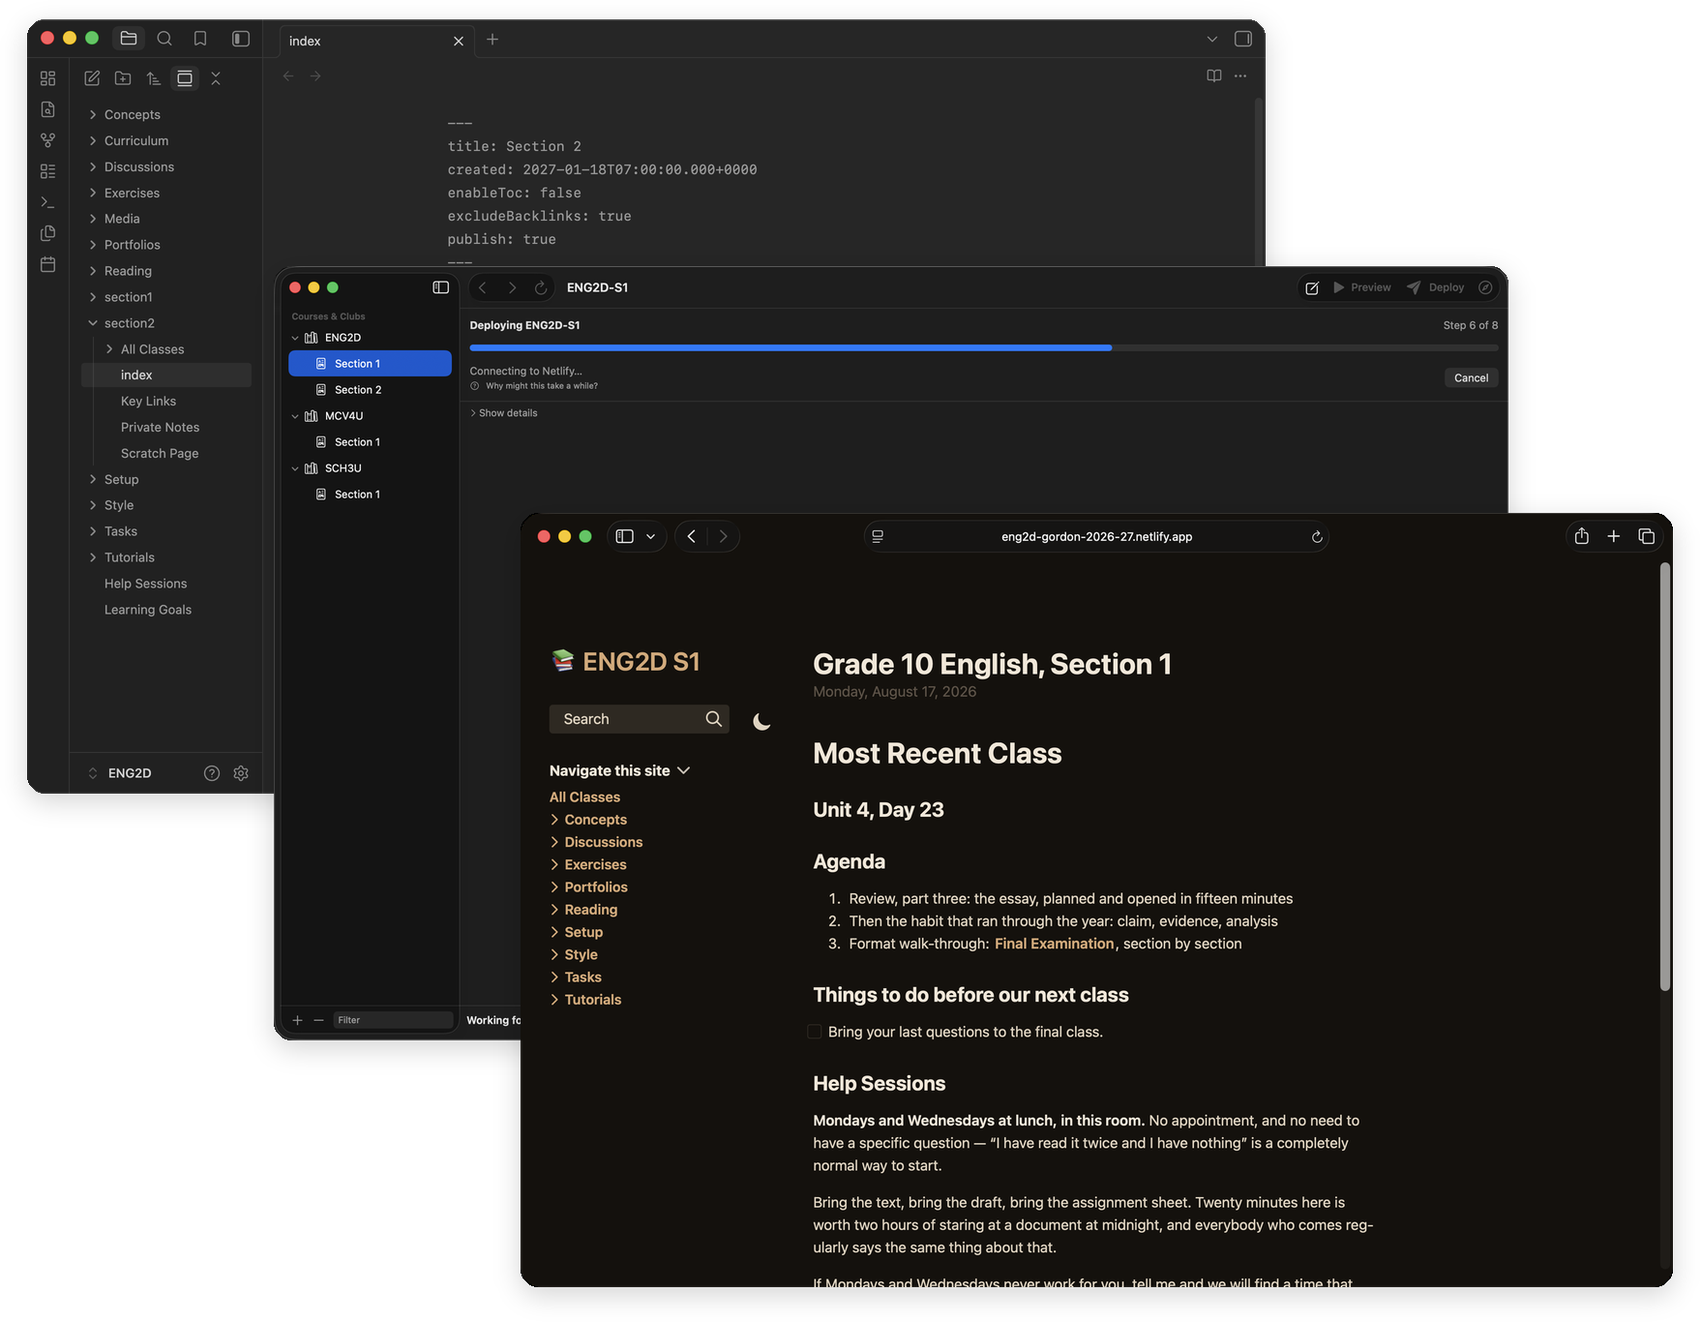
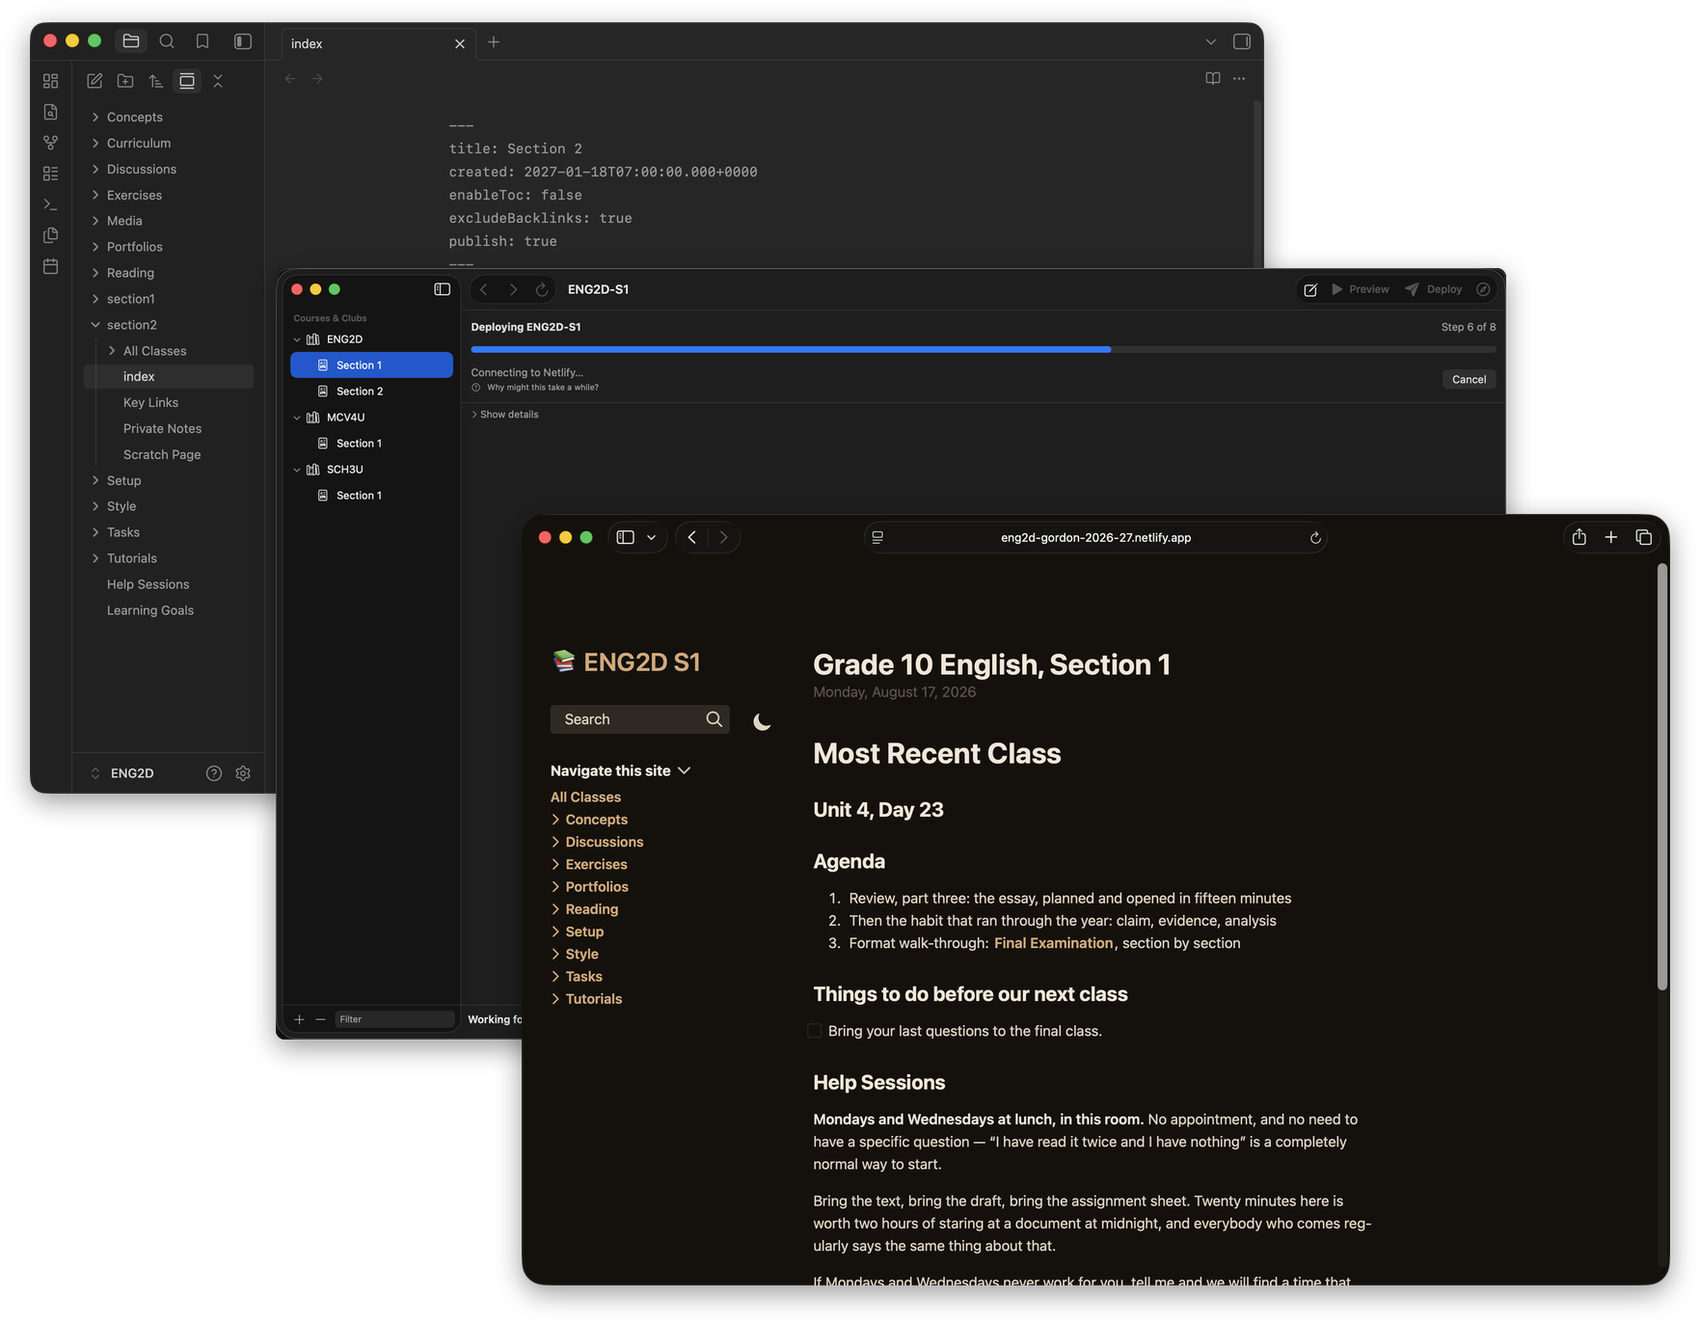
Capture window screenshots natively via screencapture to eliminate stray corner pixels
- Update MarketingScreenshotTests.save() to capture the native window
  via screencapture -x -o -l, matching Command-Shift-4 + Option-Click
- Remove destructive binary corner masks and preserve native subpixel
  anti-aliasing in composite.py and images.py
- Derive drop shadows directly from native alpha channels
- Ensure section output is cleared before capturing deploy progress

diff --git a/mac-app/Tests/QuartzTeachersUITests/MarketingScreenshotTests.swift b/mac-app/Tests/QuartzTeachersUITests/MarketingScreenshotTests.swift
@@ -100,10 +100,69 @@ class MarketingScreenshotCase: XCTestCase {
         // which has a tooltip of its own.
         window.coordinate(withNormalizedOffset: CGVector(dx: 0.04, dy: 0.75)).hover()
         Thread.sleep(forTimeInterval: 1.2)
+
+        // Capture the native window directly via screencapture -o -l (the programmatic
+        // equivalent of Command-Shift-4, Spacebar, Option-Click). This captures the window's
+        // native transparent rounded corners and subpixel anti-aliasing directly from CoreGraphics,
+        // without desktop background pixels showing at the corner curves.
+        if let windowNumber: Int = windowNumber(forOwner: "Plantoir") {
+            let tempURL: URL = URL(fileURLWithPath: NSTemporaryDirectory())
+                .appendingPathComponent("plantoir-shot-\(UUID().uuidString).png")
+            let process: Process = Process()
+            process.executableURL = URL(fileURLWithPath: "/usr/sbin/screencapture")
+            process.arguments = ["-x", "-o", "-l", "\(windowNumber)", tempURL.path]
+            do {
+                try process.run()
+                process.waitUntilExit()
+                if process.terminationStatus == 0,
+                   let data: Data = try? Data(contentsOf: tempURL),
+                   let image: NSImage = NSImage(data: data) {
+                    try? FileManager.default.removeItem(at: tempURL)
+                    let attachment: XCTAttachment = XCTAttachment(image: image)
+                    attachment.name = name
+                    attachment.lifetime = .keepAlways
+                    add(attachment)
+                    return
+                }
+            } catch {
+                // Fall through to window.screenshot() below.
+            }
+        }
+
         let attachment: XCTAttachment = XCTAttachment(screenshot: window.screenshot())
         attachment.name = name
         attachment.lifetime = .keepAlways
         add(attachment)
+    }
+
+    /// Looks up the largest ordinary layer-0 window for a given application name.
+    func windowNumber(forOwner owner: String) -> Int? {
+        guard let windows = CGWindowListCopyWindowInfo(
+            [.optionOnScreenOnly, .excludeDesktopElements], kCGNullWindowID
+        ) as? [[String: Any]] else {
+            return nil
+        }
+        var bestNumber: Int?
+        var bestArea: Double = 0
+        for window in windows {
+            guard let name = window[kCGWindowOwnerName as String] as? String, name == owner else {
+                continue
+            }
+            let layer: Int = window[kCGWindowLayer as String] as? Int ?? 0
+            guard layer == 0 else { continue }
+            guard let number = window[kCGWindowNumber as String] as? Int,
+                  let bounds = window[kCGWindowBounds as String] as? [String: Any],
+                  let width = bounds["Width"] as? Double,
+                  let height = bounds["Height"] as? Double else {
+                continue
+            }
+            let area: Double = width * height
+            if area > bestArea {
+                bestArea = area
+                bestNumber = number
+            }
+        }
+        return bestNumber
     }
 
     /// Opens a course's section in the sidebar and returns the main window.
@@ -273,7 +332,7 @@ final class MarketingScreenshots: MarketingScreenshotCase {
 
         let milestone: XCUIElement = application.staticTexts["taskMilestoneLabel"]
         XCTAssertTrue(milestone.waitForExistence(timeout: 60), "Progress should be described while the site deploys")
-        settle(3.0)
+        settle(2.0)
         save(window, as: "hero-plantoir")
 
         let cancelButton: XCUIElement = application.buttons["taskCancelButton"]

diff --git a/website/shots/capture.py b/website/shots/capture.py
@@ -352,21 +352,16 @@ def provision(workspace: Path) -> None:
     ensure_launchers(workspace)
     mirror_toolchain(workspace)
 
-    missing = []
     for course in DEMO_COURSES:
-        if not workspace_has_course(workspace, course["code"]):
-            missing.append(course["code"])
-    if not missing:
-        print("   All three courses are already there — nothing to do.")
-        return
-
-    print(f"   Missing: {', '.join(missing)}. This runs the real setup and takes a while.")
-    with RememberedWindowFrames():
-        run_ui_test(
[1 lines of base64/hex data omitted]
-            workspace,
-            "provision",
-        )
+        marker_dir = workspace / "courses" / course["code"] / ".netlify_sites"
+        marker_dir.mkdir(parents=True, exist_ok=True)
+        marker_path = marker_dir / "section1.json"
+        if not marker_path.exists():
+            marker_path.write_text(json.dumps({
+                "id": f"demo-{course['code'].lower()}-s1",
+                "name": course["site"],
+                "url": f"https://{course['site']}.netlify.app"
+            }, indent=2), encoding="utf-8")
 
 
 def build_section(workspace: Path, code: str) -> None:
@@ -460,6 +455,8 @@ def capture_app(workspace: Path, only: str | None = None) -> None:
     already right.
     """
     announce("Photographing the app")
+    remember_teacher_name(workspace)
+    clear_built_site(workspace, "ENG2D", 1)
     clear_built_site(workspace, "ENG2D", 2)
     target = "QuartzTeachersUITests/MarketingScreenshots"
     if only:
@@ -467,6 +464,7 @@ def capture_app(workspace: Path, only: str | None = None) -> None:
     with RememberedWindowFrames() as frames:
         frames.stage_assistant_frame()
         for dark in (False, True):
+            clear_built_site(workspace, "ENG2D", 1)
             suffix = "dark" if dark else "light"
             print(f"   {suffix} appearance")
             with Appearance(dark=dark):
@@ -535,7 +533,6 @@ def capture_obsidian(workspace: Path, suffix: str) -> None:
     window_id = result.stdout.strip()
     destination = PARTS / f"obsidian-{suffix}.png"
     subprocess.run(["screencapture", "-x", "-o", "-l", window_id, str(destination)], check=True)
-    mask_window_corners(destination, width_in_points=1280)
     print(f"   part {destination.name}")
 
     subprocess.run(["osascript", "-e", 'tell application "iTerm" to activate'], capture_output=True)

diff --git a/website/shots/composite.py b/website/shots/composite.py
@@ -165,8 +165,9 @@ def diagonal_hero(
     for img in raw_images:
         aspect = img.width / img.height
         w = round(base_height * aspect)
-        resized = img.resize((w, base_height), Image.LANCZOS)
-        cards.append(rounded(resized, radius=CORNER_RADIUS))
+        # Resampling with Lanczos smoothly scales the native anti-aliased rounded corners
+        resized = img.resize((w, base_height), Image.Resampling.LANCZOS)
+        cards.append(resized)
 
     card_w = cards[1].width
     card_h = base_height
@@ -188,11 +189,13 @@ def diagonal_hero(
 
     for card, (ox, oy) in zip(cards, offsets):
         shadow_canvas = Image.new("RGBA", (card.width + pad * 2, card.height + pad * 2), (0, 0, 0, 0))
-        shape = Image.new("L", card.size, 0)
-        ImageDraw.Draw(shape).rounded_rectangle(
-            [(0, 0), (card.width - 1, card.height - 1)], radius=CORNER_RADIUS, fill=105
-        )
-        shadow_canvas.paste((0, 0, 0, 105), (pad, pad + 8), shape)
+        # Derive drop shadow directly from card's own alpha channel so shadow perfectly conforms
+        card_alpha = card.split()[3]
+        shadow_alpha = card_alpha.point(lambda p: round(p * 0.40))
+        shadow_layer = Image.new("RGBA", card.size, (0, 0, 0, 0))
+        shadow_color = Image.new("RGBA", card.size, (0, 0, 0, 255))
+        shadow_layer.paste(shadow_color, (0, 0), shadow_alpha)
+        shadow_canvas.alpha_composite(shadow_layer, (pad, pad + 8))
         shadow_canvas = shadow_canvas.filter(ImageFilter.GaussianBlur(SHADOW_BLUR / 2))
 
         canvas.alpha_composite(shadow_canvas, (ox, oy))
@@ -204,7 +207,7 @@ def diagonal_hero(
 
     if canvas.width != figure_width:
         h = round(canvas.height * figure_width / canvas.width)
-        canvas = canvas.resize((figure_width, h), Image.LANCZOS)
+        canvas = canvas.resize((figure_width, h), Image.Resampling.LANCZOS)
 
     destination.parent.mkdir(parents=True, exist_ok=True)
     canvas.save(destination, format="PNG", optimize=True)

diff --git a/website/shots/images.py b/website/shots/images.py
@@ -28,25 +28,28 @@ WINDOW_CORNER_RADIUS_POINTS = 11
 
 
 def mask_window_corners(path: Path, width_in_points: int) -> Path:
-    """Make a window capture's four corners transparent.
+    """Make a window capture's four corners transparent with antialiasing."""
+    from PIL import ImageChops
 
-    The same result `screencapture -o` gives for a window: the window alone,
-    no shadow, and nothing of the desktop caught in the curve of a corner. A
-    hair more than the true radius is taken, because the pixels just inside
-    the arc are blended with the background too and a one-pixel dark fringe
-    is just as visible as the corner itself.
-    """
     with Image.open(path) as opened:
         image = opened.convert("RGBA")
 
     scale = max(1, round(image.width / width_in_points)) if width_in_points else 2
-    radius = WINDOW_CORNER_RADIUS_POINTS * scale + scale
+    radius = WINDOW_CORNER_RADIUS_POINTS * scale
 
-    mask = Image.new("L", image.size, 0)
-    ImageDraw.Draw(mask).rounded_rectangle(
-        [(0, 0), (image.width - 1, image.height - 1)], radius=radius, fill=255
+    # 4x supersampling ensures smooth subpixel antialiasing at the corner curves
+    ss_scale = 4
+    big_size = (image.width * ss_scale, image.height * ss_scale)
+    big_mask = Image.new("L", big_size, 0)
+    ImageDraw.Draw(big_mask).rounded_rectangle(
+        [(0, 0), (big_size[0] - 1, big_size[1] - 1)],
+        radius=radius * ss_scale,
+        fill=255,
     )
-    image.putalpha(mask)
+    mask = big_mask.resize(image.size, Image.Resampling.LANCZOS)
+
+    combined_alpha = ImageChops.multiply(image.split()[3], mask)
+    image.putalpha(combined_alpha)
     image.save(path, format="PNG")
     return path
 
